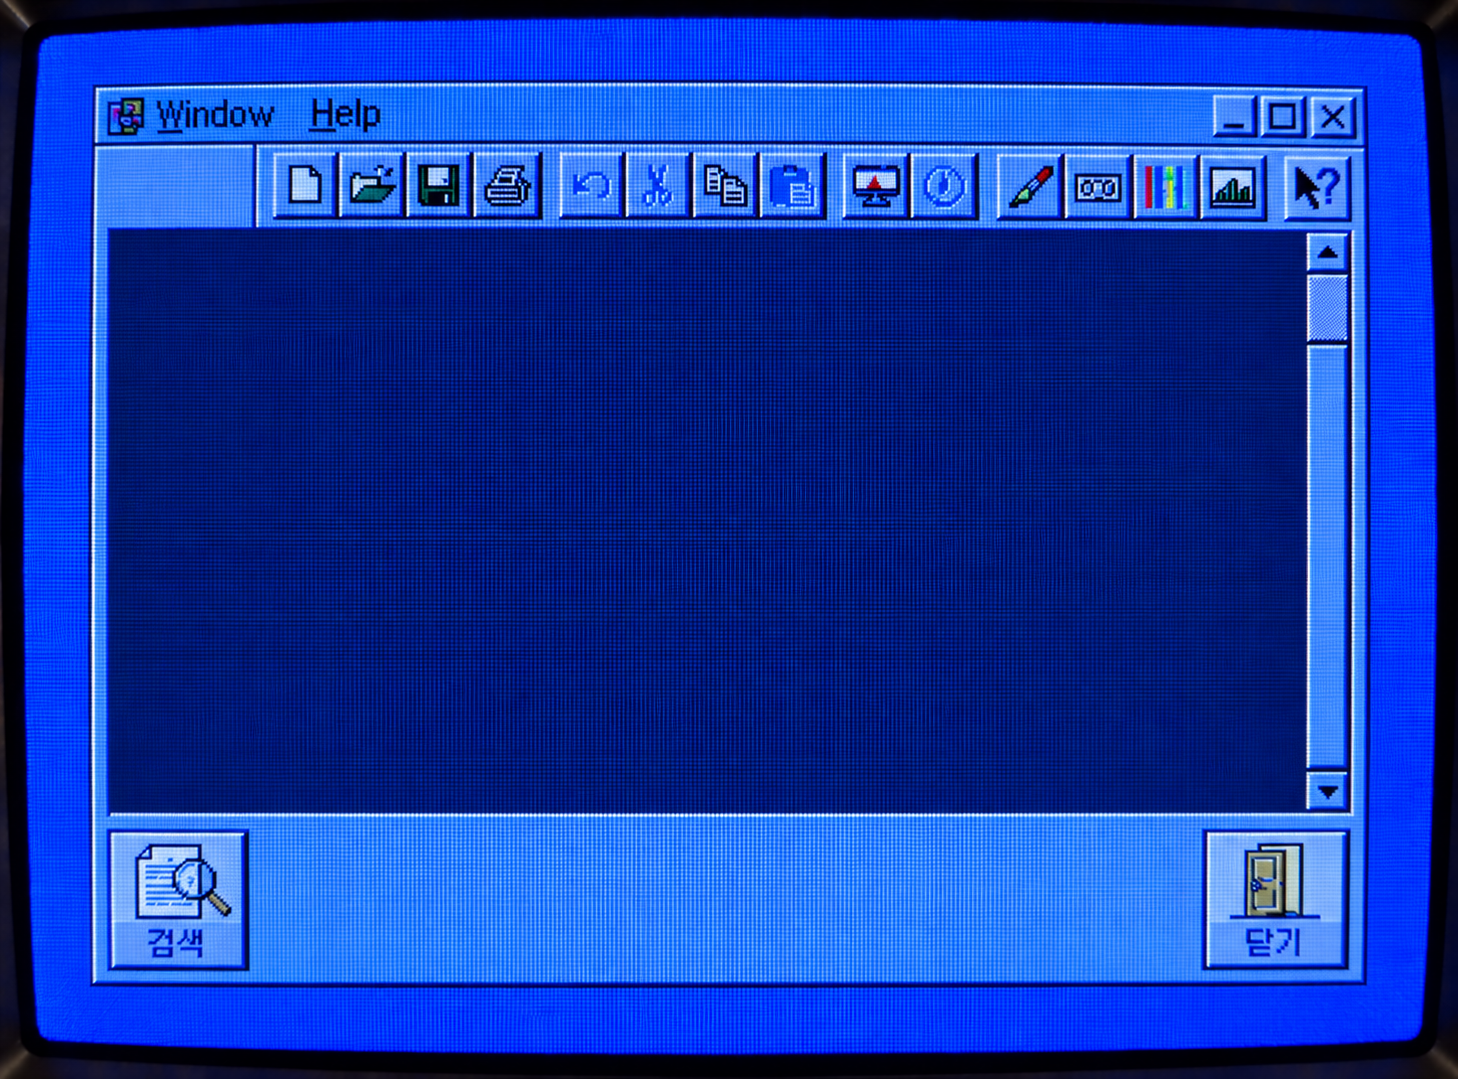
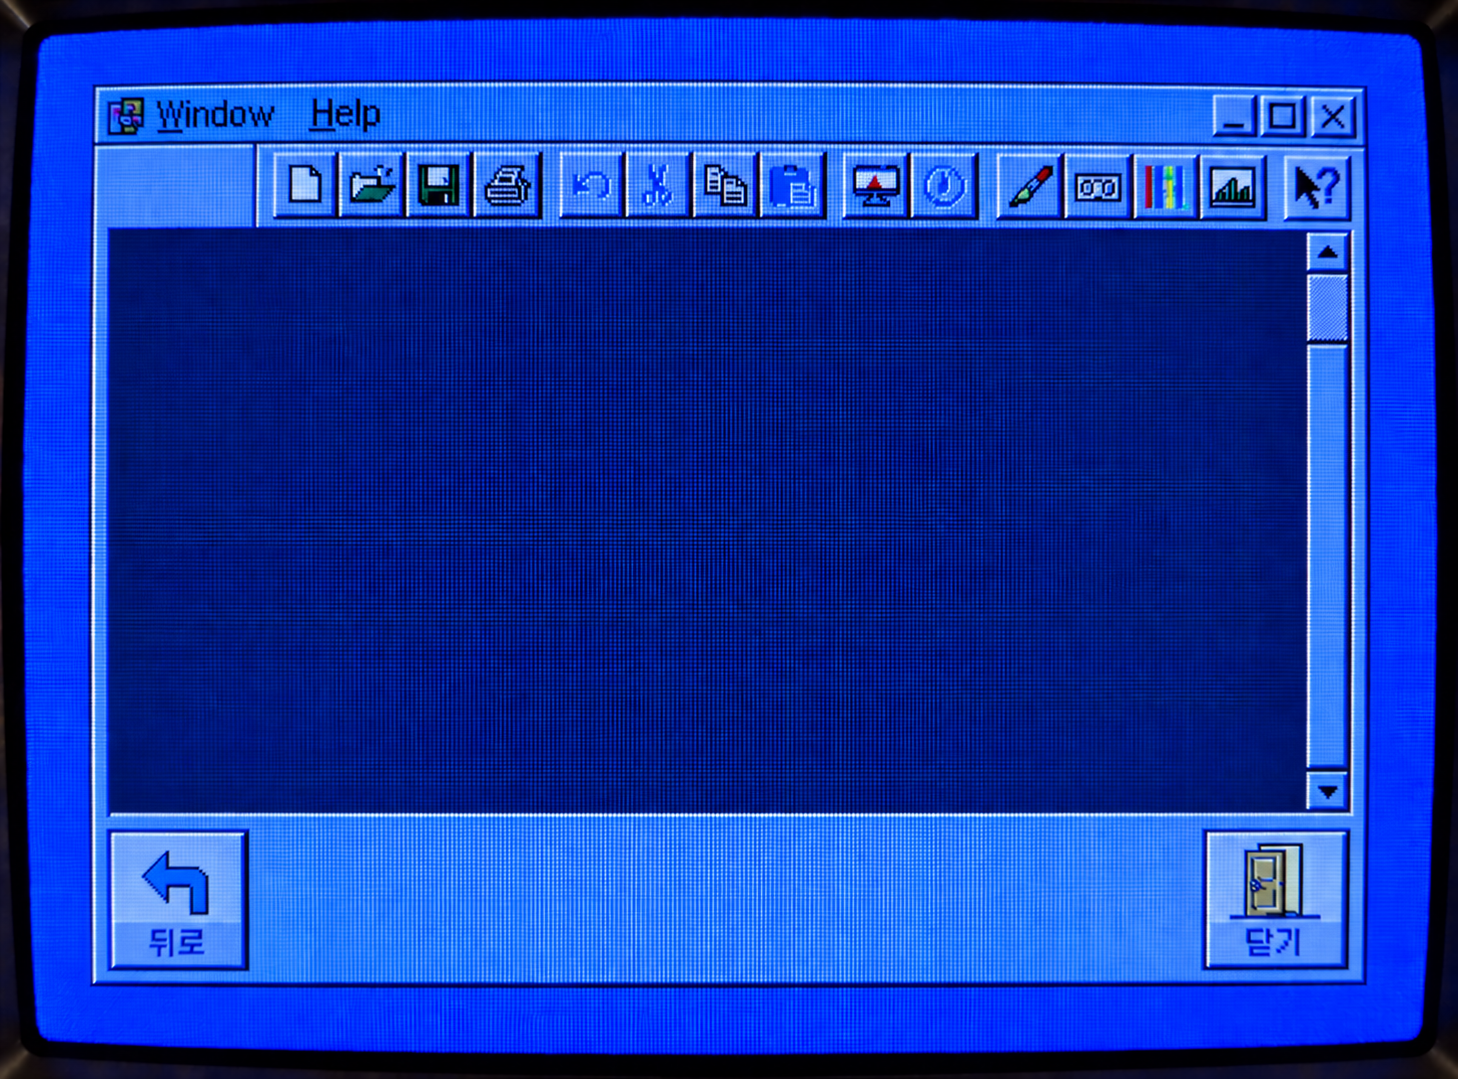
엔터테인먼트 게시글 읽기 이미지 교체, 좌측 하단 '뒤로' 버튼으로 글목록 복귀
- entertainment-read1~4.png를 '뒤로' 버튼이 있는 새 이미지로 교체
- read1~4 '뒤로' 클릭 → 엔터테인먼트 글목록(#entertainment), 브라우저 뒤로가기와 같은 경로(history.back)

diff --git a/index.html b/index.html
@@ -65,18 +65,22 @@
   <main class="screen screen--entertainment-read" id="entertainmentRead1" aria-label="엔터테인먼트 1번 글 읽기 화면" hidden>
     <img class="screen__bg" src="assets/entertainment-read1.png" alt="1번 글: 운명이라고 믿고 싶어질 때..." draggable="false">
     <iframe class="entertainment-read__video" id="entertainmentRead1Video" src="https://www.youtube.com/embed/tYLKZY7xAd4?start=629&amp;autoplay=0&amp;enablejsapi=1" title="1번 글 영상" allow="encrypted-media; picture-in-picture; fullscreen"></iframe>
+    <button class="entertainment-read__back" type="button">뒤로</button>
   </main>
   <main class="screen screen--entertainment-read" id="entertainmentRead2" aria-label="엔터테인먼트 2번 글 읽기 화면" hidden>
     <img class="screen__bg" src="assets/entertainment-read2.png" alt="2번 글: 사랑이 원래 이렇게 힘든 건가요?" draggable="false">
     <iframe class="entertainment-read__video" id="entertainmentRead2Video" src="https://www.youtube.com/embed/dGIGG6QLjLg?autoplay=0&amp;enablejsapi=1" title="2번 글 영상" allow="encrypted-media; picture-in-picture; fullscreen"></iframe>
+    <button class="entertainment-read__back" type="button">뒤로</button>
   </main>
   <main class="screen screen--entertainment-read" id="entertainmentRead3" aria-label="엔터테인먼트 3번 글 읽기 화면" hidden>
     <img class="screen__bg" src="assets/entertainment-read3.png" alt="3번 글: 우리가 한 번만 더 해보면..." draggable="false">
     <iframe class="entertainment-read__video" id="entertainmentRead3Video" src="https://www.youtube.com/embed/GCvQfMB1eT8?autoplay=0&amp;enablejsapi=1" title="3번 글 영상" allow="encrypted-media; picture-in-picture; fullscreen"></iframe>
+    <button class="entertainment-read__back" type="button">뒤로</button>
   </main>
   <main class="screen screen--entertainment-read" id="entertainmentRead4" aria-label="엔터테인먼트 4번 글 읽기 화면" hidden>
     <img class="screen__bg" src="assets/entertainment-read4.png" alt="4번 글: 기적은 기다려준다는 것" draggable="false">
     <iframe class="entertainment-read__video" id="entertainmentRead4Video" src="https://www.youtube.com/embed/XFPFoxYMAs0?autoplay=0&amp;enablejsapi=1" title="4번 글 영상" allow="encrypted-media; picture-in-picture; fullscreen"></iframe>
+    <button class="entertainment-read__back" type="button">뒤로</button>
   </main>
 
   <!-- 1번 편지 → 편지읽기 -->

diff --git a/entertainment.js b/entertainment.js
@@ -177,3 +177,17 @@
     videoEl.contentWindow?.postMessage(JSON.stringify({ event: 'command', func: 'pauseVideo', args: [] }), 'https://www.youtube.com');
   }).observe(screenEl, { attributes: true, attributeFilter: ['hidden'] });
 })();
+
+// 게시글 읽기 화면 '뒤로' 버튼 → 글목록
+// 브라우저 뒤로가기·Backspace와 같은 경로(history.back → popstate → crtSwitch)를 써서 history가 꼬이지 않게 함
+// 영상 일시정지는 화면이 숨겨질 때 위의 각 글 영상 코드가 처리
+(() => {
+  document.querySelectorAll('.entertainment-read__back').forEach((backEl) => {
+    const screenEl = backEl.closest('.screen');
+    backEl.addEventListener('click', () => {
+      if (screenEl.hidden || currentScreenId !== screenEl.id) return; // 연타로 두 번 뒤로 가지 않도록
+      console.log(`BACK_TO_ENTERTAINMENT_LIST_FROM_${screenEl.id}`);
+      history.back();
+    });
+  });
+})();

diff --git a/entertainment.css b/entertainment.css
@@ -126,3 +126,22 @@
   border: 0;
   background: #000;
 }
+
+/* 게시글 읽기 화면 좌측 하단 '뒤로' 버튼 위 투명 클릭 영역 (원본 x 108–248, y 829–970) */
+.entertainment-read__back {
+  position: absolute;
+  left: 7.41%;    /* 108px */
+  top: 76.83%;    /* 829px */
+  width: 9.67%;   /* 141px */
+  height: 13.16%; /* 142px */
+  border: 0;
+  background: transparent;
+  color: transparent;
+  font-size: 0;
+  -webkit-tap-highlight-color: transparent;
+}
+
+.entertainment-read__back:focus-visible {
+  outline: 0.15cqw dotted #01010e;
+  outline-offset: -0.6cqw;
+}
